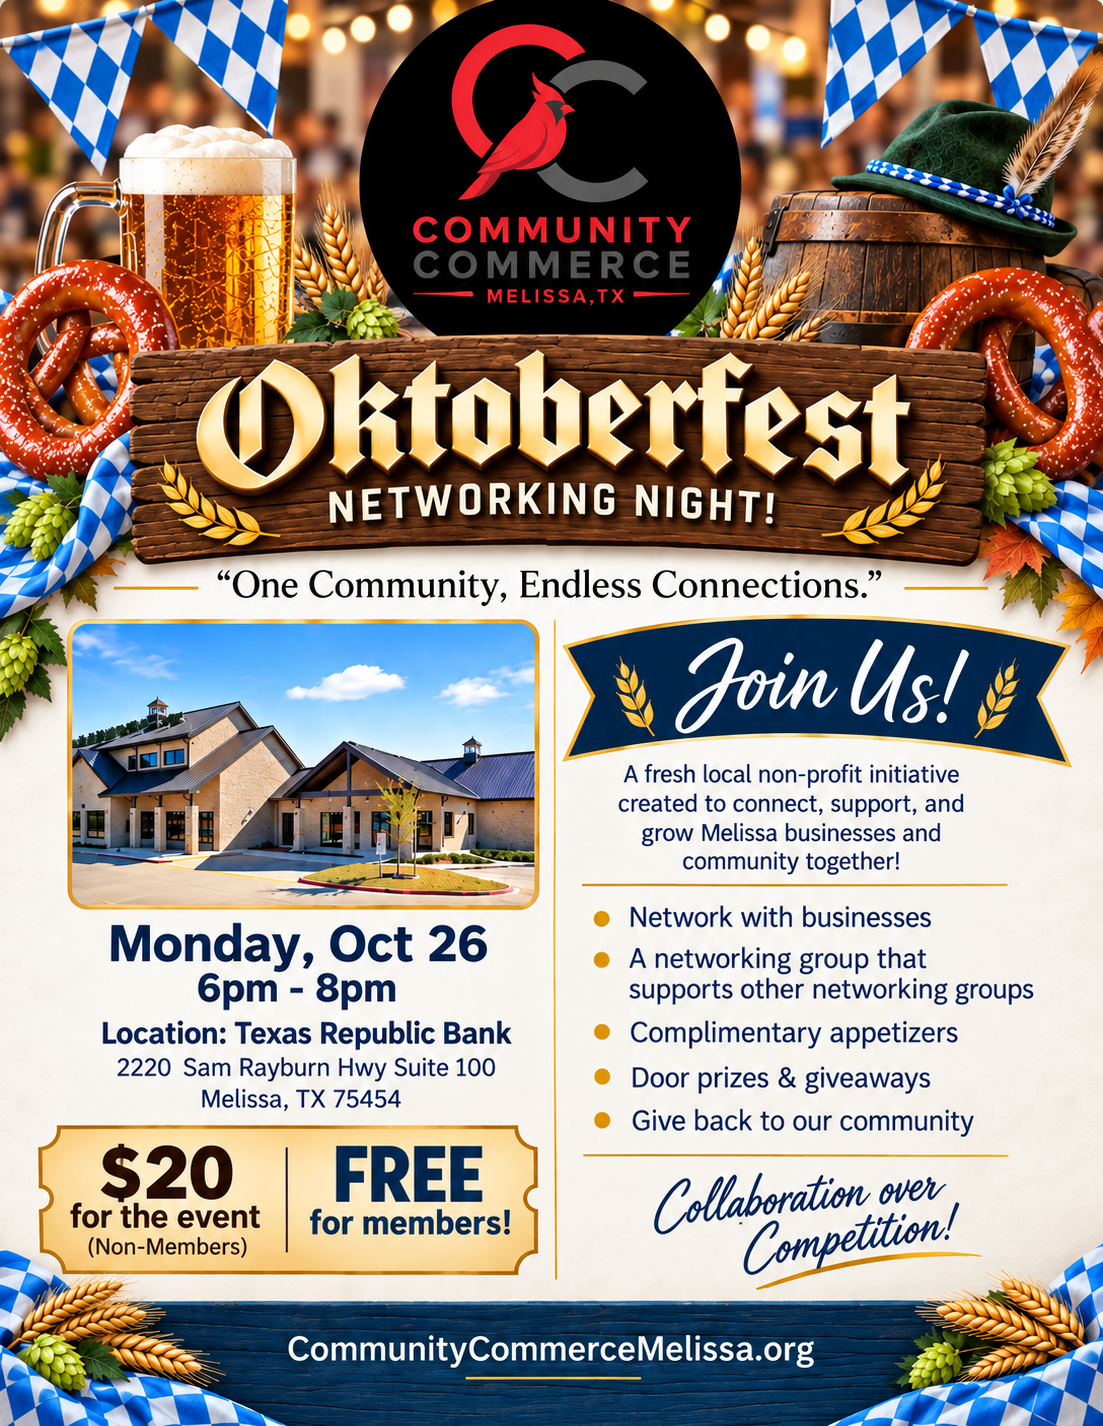
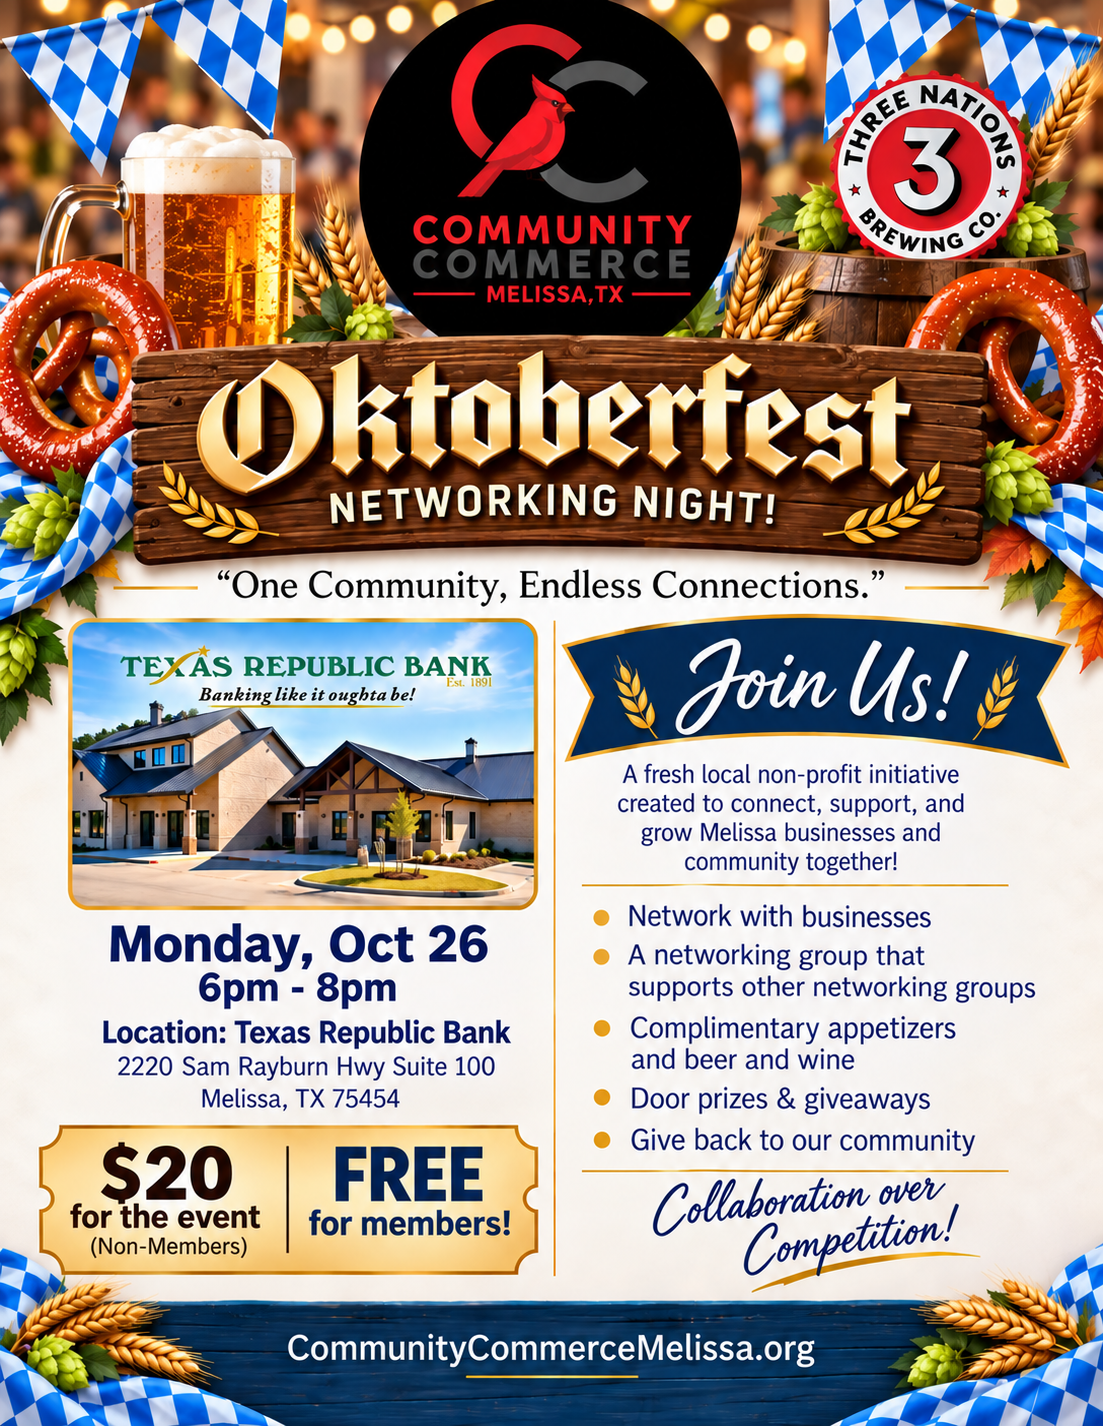
feat: replace Oktoberfest flyer and auto-archive past events
Use the updated Three Nations Brewing flyer only. Events move to Past
the America/Chicago day after they end, so the Sept 14 Lunch & Learn
is archived now.

diff --git a/src/lib/site-events.ts b/src/lib/site-events.ts
@@ -51,7 +51,7 @@ export const SITE_EVENTS: SiteEvent[] = [
     address: "2220 Sam Rayburn Hwy Suite 100, Melissa, TX 75454",
     category: "Monthly Networking Mixers",
     description:
-      "A casual Oktoberfest mixer for Melissa business owners and neighbors. Meet new partners, say hello, and enjoy the evening.",
+      "Networking night with complimentary appetizers, beer, and wine. Partner: Three Nations Brewing Co.",
     image: resolveOktoberfestImage(),
     isFeatured: true,
     href: "/events/oktoberfest",
@@ -77,6 +77,26 @@ export const SITE_EVENTS: SiteEvent[] = [
     href: "/events/tent-or-treat",
   },
 ];
+
+const CHICAGO_DATE = new Intl.DateTimeFormat("en-CA", {
+  timeZone: "America/Chicago",
+  year: "numeric",
+  month: "2-digit",
+  day: "2-digit",
+});
+
+export function chicagoCalendarDate(now = new Date()): string {
+  return CHICAGO_DATE.format(now);
+}
+
+export function eventEndDate(event: { date: string; endDate?: string }): string {
+  return event.endDate || event.date;
+}
+
+/** True the calendar day after the event ends, using America/Chicago. */
+export function isPastEvent(event: { date: string; endDate?: string; isPast?: boolean }, now = new Date()): boolean {
+  return eventEndDate(event) < chicagoCalendarDate(now);
+}
 
 export function getSiteEvent(slug: string | undefined | null): SiteEvent | null {
   return SITE_EVENTS.find((event) => event.slug === slug) || null;

diff --git a/src/lib/site-events.test.ts b/src/lib/site-events.test.ts
@@ -3,10 +3,12 @@ import assert from "node:assert/strict";
 import {
   OKTOBERFEST_PRICE_CENTS,
   allowedPathsForEvent,
+  chicagoCalendarDate,
   eventCheckoutAmountCents,
   eventConfirmationCopy,
   getSiteEvent,
   isPaidEventPath,
+  isPastEvent,
   siteEventsAsItems,
   validateEventRegistrationInput,
 } from "./site-events.ts";
@@ -36,6 +38,14 @@ describe("site events catalog", () => {
     assert.equal(isPaidEventPath("tent-or-treat", "sponsor"), false);
     assert.equal(eventCheckoutAmountCents("tent-or-treat", "sponsor"), 0);
     assert.match(eventConfirmationCopy("tent-or-treat", "sponsor"), /No payment/i);
+  });
+
+  it("moves events to Past the Chicago calendar day after they end", () => {
+    const event = { date: "2026-09-14" };
+    assert.equal(isPastEvent(event, new Date("2026-09-14T22:00:00-05:00")), false);
+    assert.equal(isPastEvent(event, new Date("2026-09-15T00:30:00-05:00")), true);
+    assert.equal(isPastEvent({ date: "2026-09-21" }, new Date("2026-09-21T18:00:00-05:00")), false);
+    assert.match(chicagoCalendarDate(new Date("2026-09-21T10:00:00-05:00")), /^\d{4}-\d{2}-\d{2}$/);
   });
 
   it("validates registration payloads and requires a business name on the tent interest path", () => {

diff --git a/src/app/events/page.tsx b/src/app/events/page.tsx
@@ -7,6 +7,7 @@ import MemberModal from "@/components/MemberModal";
 import RSVPModal from "@/components/RSVPModal";
 import LaunchBanner from "@/components/LaunchBanner";
 import { MOCK_EVENTS } from "@/data/mockData";
+import { isPastEvent } from "@/lib/site-events";
 import ImageLightboxModal from "@/components/ImageLightboxModal";
 import { 
   Calendar, 
@@ -50,8 +51,8 @@ export default function EventsPage() {
     return matchesCat && matchesQuery;
   };
 
-  const upcomingEvents = MOCK_EVENTS.filter((evt) => !evt.isPast);
-  const pastEvents = MOCK_EVENTS.filter((evt) => evt.isPast);
+  const upcomingEvents = MOCK_EVENTS.filter((evt) => !isPastEvent(evt));
+  const pastEvents = MOCK_EVENTS.filter((evt) => isPastEvent(evt));
 
   const filteredUpcomingEvents = upcomingEvents.filter(filterFn);
   const filteredPastEvents = pastEvents.filter(filterFn);

diff --git a/src/data/mockData.ts b/src/data/mockData.ts
@@ -14,6 +14,7 @@ export interface EventItem {
   isPast?: boolean;
   registerUrl?: string;
   registerHref?: string;
+  endDate?: string;
 }
 
 export interface BusinessItem {
@@ -165,7 +166,7 @@ export const MOCK_EVENTS: EventItem[] = [
     location: "Texas Republic Bank",
     address: "2220 Sam Rayburn Hwy Suite 100, Melissa, TX 75454",
     category: "Monthly Networking Mixers",
-    description: "A casual Oktoberfest mixer for Melissa business owners and neighbors. Meet new partners, say hello, and enjoy the evening.",
+    description: "Networking night with complimentary appetizers, beer, and wine. Partner: Three Nations Brewing Co.",
     image: "/events/oktoberfest-networking-night.png",
     isFeatured: true,
     registerHref: "/events/oktoberfest"

diff --git a/src/app/events/[slug]/page.tsx b/src/app/events/[slug]/page.tsx
@@ -110,6 +110,7 @@ function EventDetailClient({ event }: { event: SiteEvent }) {
                 <p className="text-xs font-bold uppercase tracking-widest text-red-700">Admission</p>
                 <p className="text-sm text-slate-700"><strong>Members:</strong> free</p>
                 <p className="text-sm text-slate-700"><strong>Guests:</strong> {OKTOBERFEST_PRICE_LABEL}</p>
+                <p className="text-sm text-slate-700">Complimentary appetizers, beer, and wine. Partner: Three Nations Brewing Co.</p>
               </div>
             ) : (
               <div className="bg-white rounded-2xl border border-slate-200 p-5 space-y-3">
